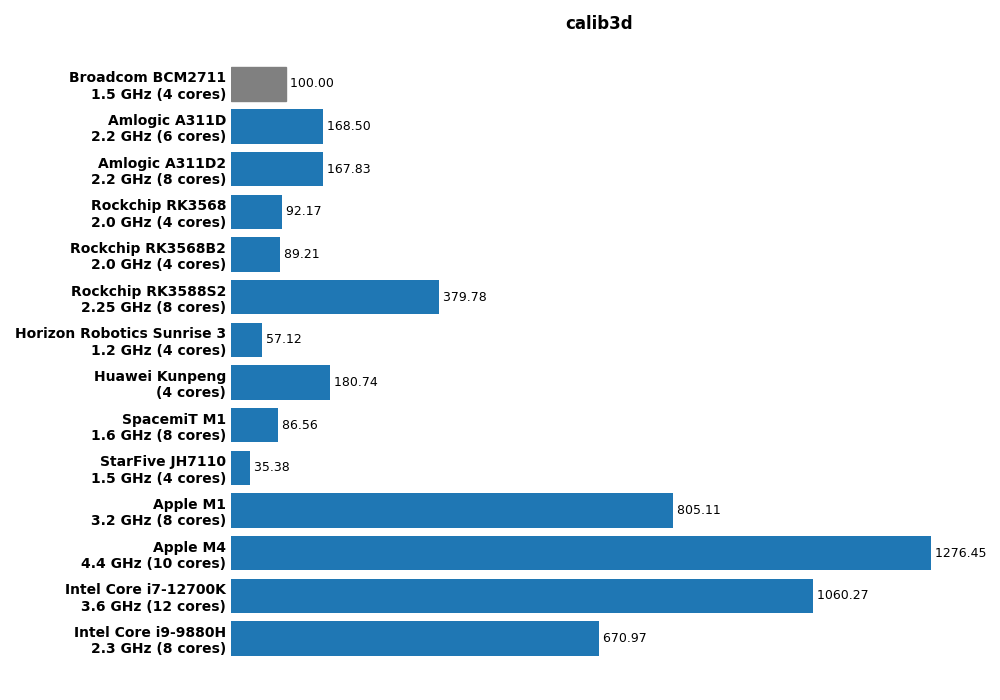
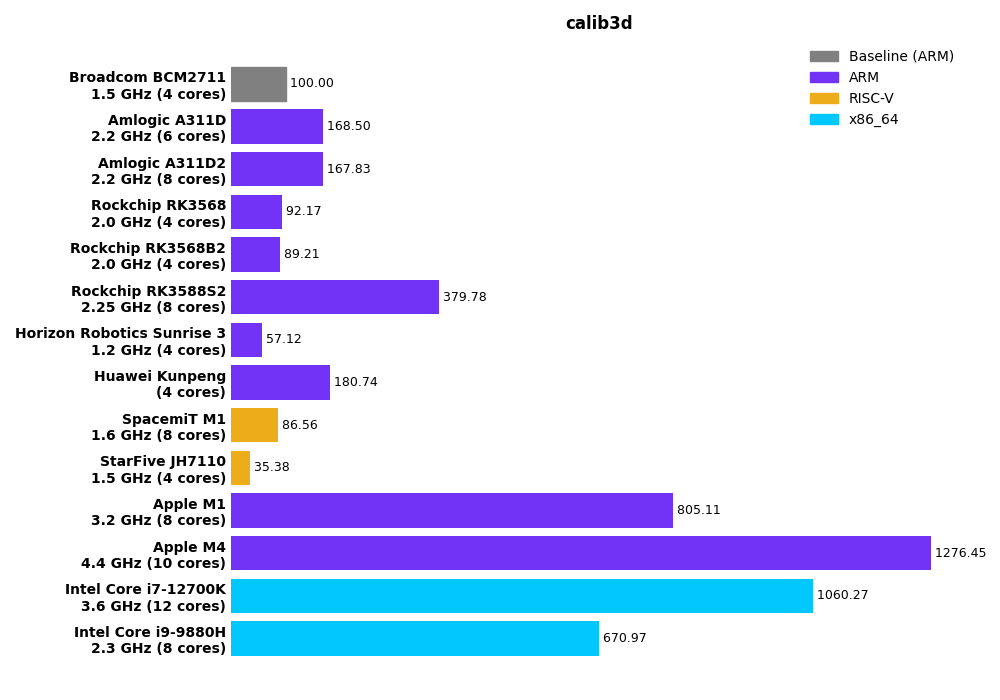
Display bars in colour according to the architecture

Changed region(s): [[0.217, 0.15, 0.93, 0.96], [0.806, 0.06, 0.961, 0.18]]

diff --git a/rate.py b/rate.py
@@ -4,6 +4,7 @@ import re
 import os
 import argparse
 import matplotlib.pyplot as plt
+import matplotlib.patches as mpatches
 import numpy as np
 import json
 
@@ -94,10 +95,23 @@ if args.figure:
     with open("processor.json", "r", encoding="utf-8") as f:
         data = json.load(f)
 
-    Baseline = f"{data['baseline']['Processor']} | {data['baseline']['Cores']}"
-    Processor = [f"{p['Processor']} | {p['Cores']}" for p in data["processors"]]
+    Baseline = f"{data['baseline']['Processor']}\n{data['baseline']['Cores']}"
+    Processor = [f"{p['Processor']} | {p['Cores']} | {p['Arch']}" for p in data["processors"]]
 
     devices = [c for c in df.columns if c != "module"]
+
+    ARCH_COLORS = {
+        "ARM": "#7233F7",       # purple
+        "RISC-V": "#EDAC1A",    # yellow
+        "x86_64": "#00C7FD",    # cyan
+        "Unknown": "#A01A1E"    # red
+    }
+
+    legend_items = [mpatches.Patch(color="gray", label="Baseline (ARM)")]
+    for arch, color in ARCH_COLORS.items():
+        if arch != "Unknown":
+            legend_items.append(mpatches.Patch(color=color, label=arch))
+    # legend_items.append(mpatches.Patch(color=ARCH_COLORS["Unknown"], label="Unknown"))
 
     # Loop over each row
     for _, row in df.iterrows():
@@ -108,29 +122,35 @@ if args.figure:
 
         labels = []
         scores = []
+        colors = []
+
         labels.append(Baseline)
         scores.append(100)
+        colors.append("gray")   # Baseline color
+
         for p in Processor:
-            short_name = p.split("|")[0].strip()
-            if short_name in score_map:
-                labels.append(p)
-                scores.append(score_map[short_name])
+            soc, cores, arch = [x.strip() for x in p.split("|")]
+            if soc in score_map:
+                labels.append(f"{soc}\n{cores}")
+                scores.append(score_map[soc])
+
+                colors.append(ARCH_COLORS.get(arch, ARCH_COLORS["Unknown"]))
 
         plt.figure(figsize=(10, 0.5 * len(labels)))
 
         y_pos = np.arange(len(labels))
-        bars = plt.barh(y_pos, scores)
+        bars = plt.barh(y_pos, scores, color=colors)
         bars[0].set_color("gray")   # Baseline bar in gray
 
         plt.tick_params(axis='y', length=0)
-        ytick_labels = [label.replace(" | ", "\n") for label in labels]
-        plt.yticks(y_pos, ytick_labels, fontweight='bold')
+        plt.yticks(y_pos, labels, fontweight='bold')
         plt.xticks([])
 
         if module_name == "Score":
             plt.title("Processor Benchmark", fontweight="bold")
         else:
             plt.title(module_name, fontweight="bold")
+        plt.legend(handles=legend_items, loc="upper right", frameon=False)
 
         plt.gca().invert_yaxis()
 
